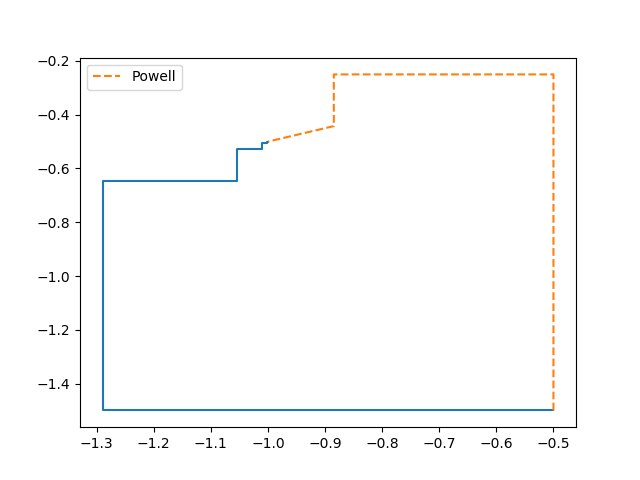
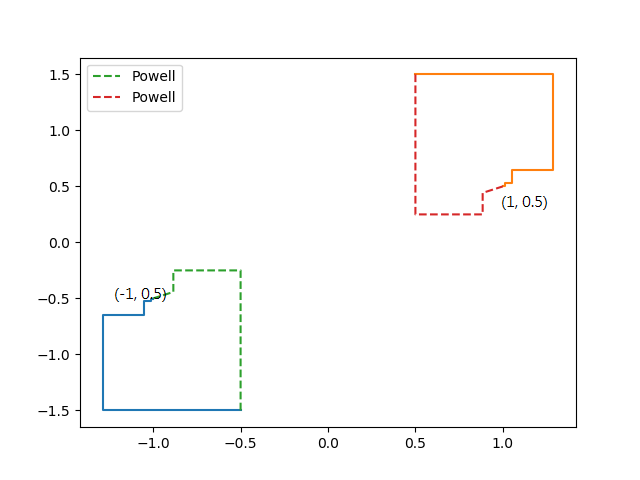
Added report

diff --git a/p2.cpp b/p2.cpp
@@ -104,15 +104,23 @@ int main(int argc, char *argv[])
     opt::Expression expr = (x1^4)+(x2^2)*4.0-(x1^2)-x1*x2*4.0;
     auto f = opt::MakeFunction(expr, x1, x2);
 
+    cout<<"Univaridate method:"<<endl;
     {
         double x1=-0.5, x2=-1.5;
         int steps = ND1D(f, 1e-5, x1, x2);
         cout<<x1<<" "<<x2<<endl;
+        x1 = 0.5; x2=1.5;
+        steps = ND1D(f, 1e-5, x1, x2);
+        cout<<x1<<" "<<x2<<endl;
     }
 
+    cout<<"Powell's method:"<<endl;
     {
         double x1=-0.5, x2=-1.5;
         int steps = Powell(f, 1e-5, x1, x2);
+        cout<<x1<<" "<<x2<<endl;
+        x1 = 0.5; x2=1.5;
+        steps = Powell(f, 1e-5, x1, x2);
         cout<<x1<<" "<<x2<<endl;
     }
 #ifdef PLOT

diff --git a/README.md b/README.md
@@ -39,3 +39,26 @@ Remove this line in pyconfig.h
 ```cpp
 #define hypot _hypot
 ```
+
+# Homework Report
+#### problem 1
+Because of the natural of the two search algorithm, Golden and fib search failed to find correct minima within given [a, b] interval.
+```
+>p1.exe
+10
+9.99999
+``` 
+
+#### problem 2 & 3
+I combined univaridate algorithm(cyclic coordinate) and Powell's method with golden search.
+Since there are two minima in the objective function, I called both function twice with different initial points.
+```
+>p2.exe
+Univaridate method:
+-1.00043 -0.501071
+1.00043 0.501068
+Powell's method:
+-1 -0.500003
+1 0.500003
+```
+![GitHub Logo](/images/result.png)
